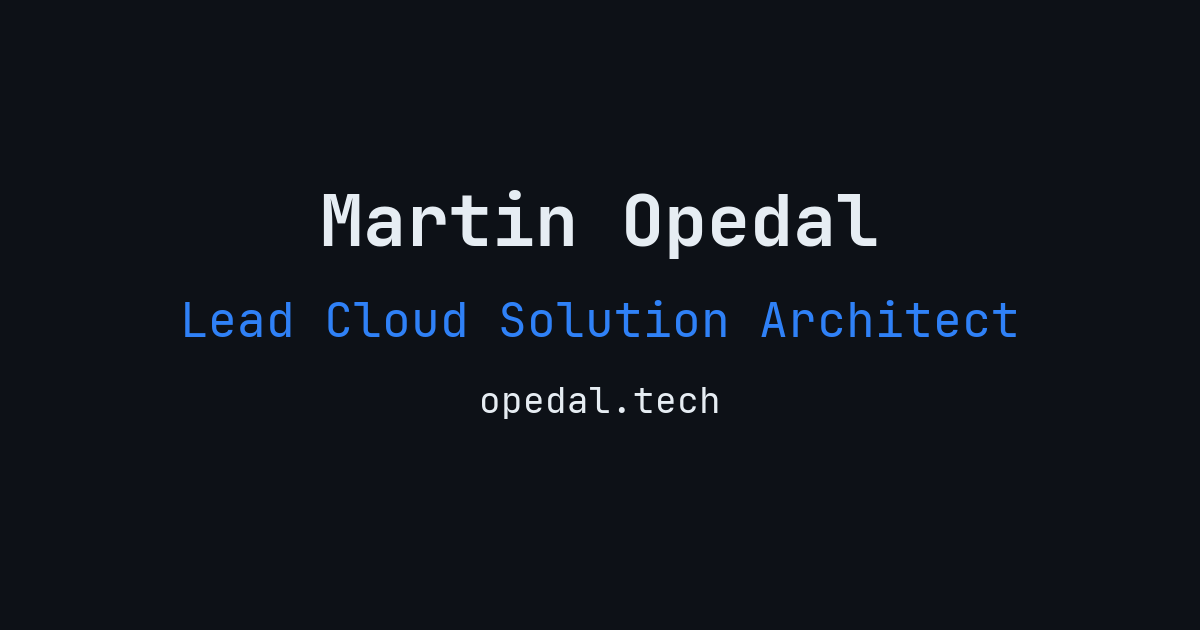
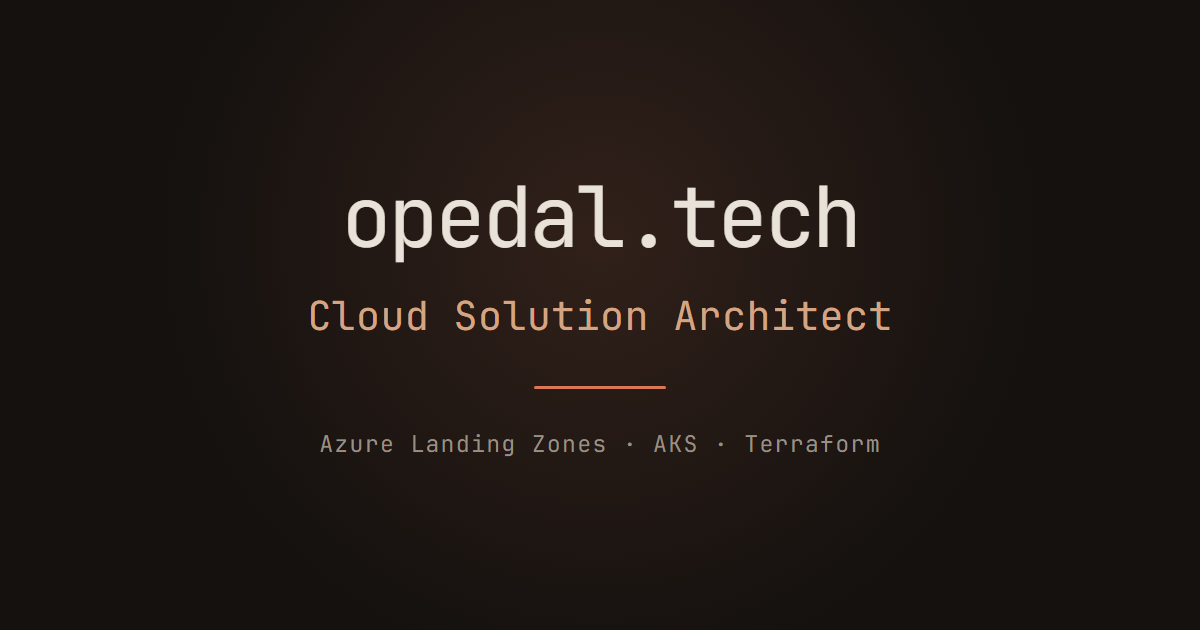
chore: reduce personal footprint on the site (#118)
- Hero: replace the large "Martin" name treatment with the role as the
  h1, and drop the now-duplicated role sentence from the tagline. Keeps
  exactly one h1 on the homepage, and the clamp cap drops from 4rem to
  3rem so the longer heading fits.
- About: remove the portrait image and delete src/assets/portrait.jpg
- OG card: regenerate public/og-default.png. The old one still read
  "Martin Opedal" and "Lead Cloud Solution Architect" in the retired
  GitHub-blue palette, and it is the image every link preview shows. The
  new card is domain plus role on the warm earth palette, self-hosted
  JetBrains Mono, no name.
- Sessionize: the speaker profile was deleted, so the API now returns 404
  and the catalog was already self-hiding. Remove the integration
  entirely: src/utils/sessionize.ts, both render blocks, and the two
  sessionize.com links. This also stops a failing build-time network call
  and fixes the Validate links job.
- global.css: drop the dead .about-portrait and session catalog rules

Copilot-Session: ec413f56-bd2c-497d-a73e-60fabfde5c01

Changed region(s): [[0.1542, 0.0905, 0.8633, 0.6635], [0.2467, 0.6937, 0.5858, 0.7238], [0.6167, 0.6937, 0.74, 0.7238]]

diff --git a/src/styles/global.css b/src/styles/global.css
@@ -290,7 +290,7 @@ input:focus-visible,
 }
 
 #hero h1 {
-  font-size: clamp(2.2rem, 5vw, var(--fs-3xl));
+  font-size: clamp(1.75rem, 4.2vw, 3rem);
   font-family: var(--font-mono);
   font-weight: 700;
   letter-spacing: -0.04em;
@@ -684,16 +684,6 @@ footer p {
   margin-bottom: var(--space-9);
 }
 
-.about-portrait {
-  width: 200px;
-  height: 200px;
-  border-radius: 50%;
-  border: 1px solid var(--color-border);
-  object-fit: cover;
-  margin: 0 auto var(--space-6);
-  display: block;
-}
-
 .about-header h1 {
   font-size: var(--fs-2xl);
   font-weight: 700;
@@ -856,11 +846,6 @@ footer p {
 @media (min-width: 768px) {
   .about-page {
     padding: calc(var(--space-9) + var(--space-6)) 0;
-  }
-
-  .about-portrait {
-    width: 280px;
-    height: 280px;
   }
 
   .about-header h1 {
@@ -1441,97 +1426,6 @@ section h2 {
 
 .speaking-line a {
   font-weight: 500;
-}
-
-/* ---- Speaking session catalog (Sessionize) ---- */
-.sessions {
-  margin-top: var(--space-6);
-}
-
-.sessions-heading {
-  font-family: var(--font-mono);
-  font-size: var(--fs-xs);
-  font-weight: 600;
-  letter-spacing: 0.12em;
-  text-transform: uppercase;
-  color: var(--color-accent-strong);
-  margin-bottom: var(--space-2);
-}
-
-.sessions-sub {
-  font-size: 0.9rem;
-  color: var(--text-muted);
-  margin-bottom: var(--space-5);
-}
-
-.sessions-list {
-  display: grid;
-  grid-template-columns: repeat(auto-fill, minmax(280px, 1fr));
-  gap: var(--space-4);
-}
-
-.session-card {
-  display: flex;
-  flex-direction: column;
-  background: var(--surface);
-  border: 1px solid var(--border);
-  border-left-width: 2px;
-  border-radius: var(--radius);
-  padding: var(--space-5);
-  transition: transform 0.18s ease, background 0.18s ease, box-shadow 0.18s ease, border-color 0.18s ease;
-  text-decoration: none;
-  color: inherit;
-}
-
-.session-card:hover,
-.session-card:focus-visible {
-  border-color: var(--accent);
-  background: var(--color-elevated);
-  box-shadow: var(--shadow-warm-md);
-  transform: translateY(-2px);
-  color: inherit;
-}
-
-.session-card-meta {
-  margin-bottom: var(--space-2);
-}
-
-.session-lang {
-  font-family: var(--font-mono);
-  font-size: 0.7rem;
-  font-weight: 600;
-  letter-spacing: 0.1em;
-  text-transform: uppercase;
-  padding: 0.15rem 0.55rem;
-  border-radius: 2rem;
-  background: var(--tag-bg);
-  color: var(--tag-text);
-}
-
-.session-card-title {
-  font-size: 1rem;
-  font-weight: 700;
-  line-height: 1.35;
-  letter-spacing: -0.01em;
-  color: var(--text);
-  margin-bottom: var(--space-2);
-}
-
-.session-card-desc {
-  font-size: 0.875rem;
-  color: var(--text-muted);
-  line-height: 1.6;
-  margin: 0;
-}
-
-@media (prefers-reduced-motion: reduce) {
-  .session-card {
-    transition: none;
-  }
-  .session-card:hover,
-  .session-card:focus-visible {
-    transform: none;
-  }
 }
 
 /* ---- Contact email button ---- */
